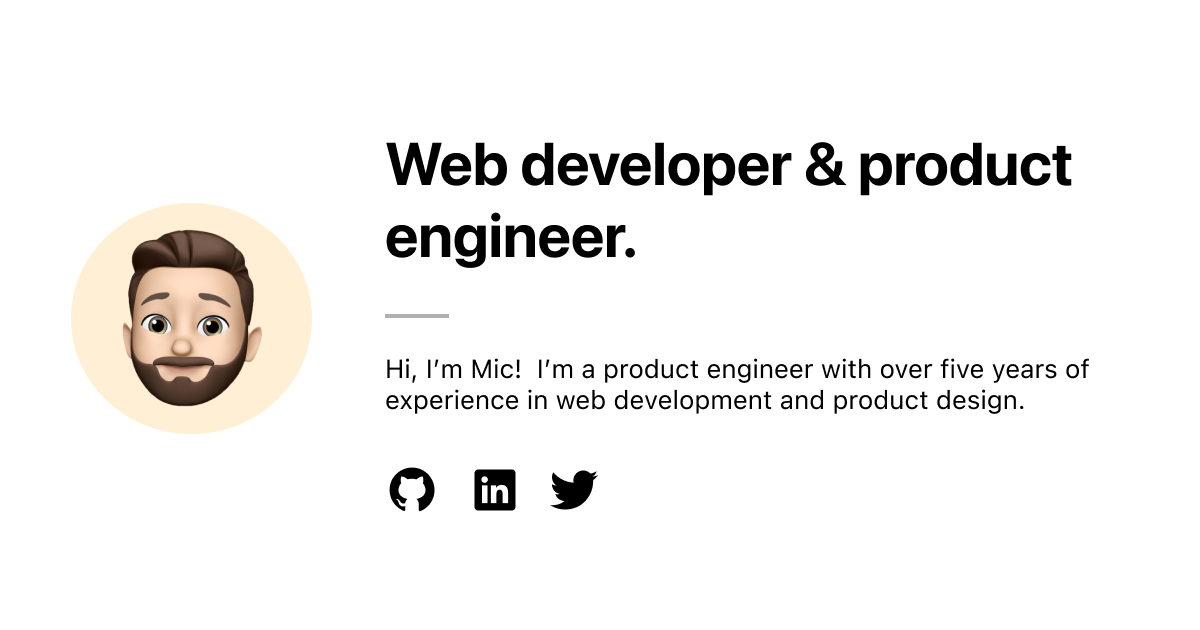
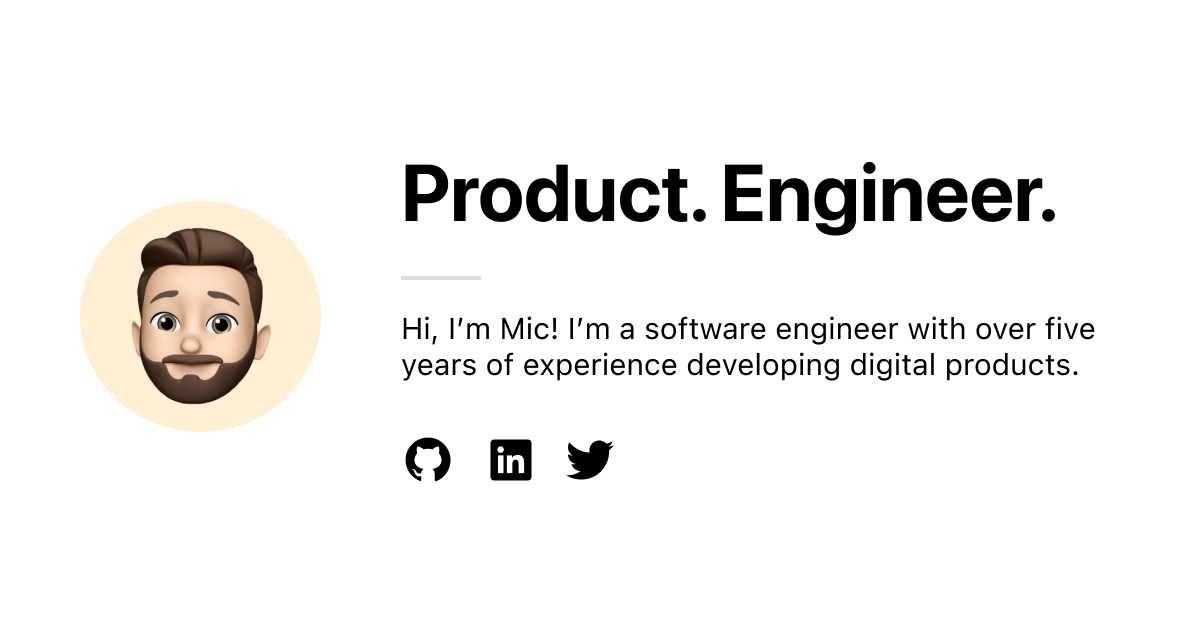
More on product engineering

diff --git a/src/components/About.js b/src/components/About.js
@@ -45,25 +45,67 @@ const divider = css`
   animation: ${animateWidth} 0.5s ease-in-out 0.5s forwards;
 `;
 
-const subheading = css`
+const about = css`
   opacity: 0;
+  animation: ${fadeUp} 0.5s ease-out 1s forwards;
   font-size: 1.25rem;
   line-height: 2rem;
-  animation: ${fadeUp} 0.5s ease-out 1s forwards;
   @media (min-width: 420px) {
     font-size: 1.5rem;
   }
 `;
 
+const details = css`
+  font-size: 0.8em;
+  background-color: aliceblue;
+  border-radius: 0.5rem;
+  & p {
+    padding: 0.4rem 0.8rem;
+  }
+`;
+
+const summary = css`
+  cursor: pointer;
+  padding: 0.4rem 0.8rem;
+`;
+
+const detailsContent = css`
+  padding: 0.4rem 0.8rem;
+  margin: 0;
+`;
+
 export default function About() {
   return (
     <div css={container}>
-      <h1 css={heading}>Web developer & product engineer.</h1>
+      <h1 css={heading}>Product. Engineer.</h1>
       <div css={divider} />
-      <p css={subheading}>
-        Hi, I’m Mic! I’m a product engineer with over five years of experience
-        in web development and product design. More about my work coming soon!
-      </p>
+      <div css={about}>
+        <p>
+          Hi, I’m Mic! I’m a software engineer with a background in business
+          management and computer science and over five years of experience
+          developing digital products.
+        </p>
+
+        <details css={details}>
+          <summary css={summary}>What's a product engineer?</summary>
+          <p css={detailsContent}>
+            A product engineer is a software engineer with a strong interest and
+            understanding in product development. They marry full-stack
+            technical skills with product management, strategy and design.
+            <br /> This excellent{" "}
+            <a
+              href="https://blog.pragmaticengineer.com/the-product-minded-engineer/"
+              target="_blank"
+              rel="noreferrer"
+            >
+              blog post
+            </a>{" "}
+            explains it in detail.
+          </p>
+        </details>
+
+        <p>More about my work coming soon!</p>
+      </div>
     </div>
   );
 }

diff --git a/src/components/Header.js b/src/components/Header.js
@@ -19,18 +19,22 @@ const container = css`
 const navLink = css`
   color: black;
   font-weight: 500;
-  margin-left: 2rem;
+  margin-left: 1rem;
   display: inline-block;
   transition: transform 0.1s ease-in-out;
   a {
     color: black;
   }
-  :hover {
+  :hover,
+  :focus {
     transform: translateY(-2px);
     transition: transform 0.1s ease-in-out;
     a {
       color: dodgerblue;
     }
+  }
+  @media (min-width: 420px) {
+    margin-left: 2rem;
   }
 `;
 
@@ -41,13 +45,27 @@ export default function Header() {
 
       <nav>
         <div css={navLink}>
-          <a href="https://github.com/mic-css">GitHub</a>
+          <a href="https://github.com/mic-css" target="_blank" rel="noreferrer">
+            GitHub
+          </a>
         </div>
         <div css={navLink}>
-          <a href="https://www.linkedin.com/in/mic-cassano">LinkedIn</a>
+          <a
+            href="https://www.linkedin.com/in/mic-cassano"
+            target="_blank"
+            rel="noreferrer"
+          >
+            LinkedIn
+          </a>
         </div>
         <div css={navLink}>
-          <a href="https://twitter.com/mic_css">Twitter</a>
+          <a
+            href="https://twitter.com/mic_css"
+            target="_blank"
+            rel="noreferrer"
+          >
+            Twitter
+          </a>
         </div>
       </nav>
     </header>

diff --git a/public/index.html b/public/index.html
@@ -35,10 +35,7 @@
       content="I’m a product engineer with over five years of experience in web development and product design."
     />
     <meta property="og:image" content="https://mic.dev/card-preview.png" />
-    <meta
-      name="twitter:title"
-      content="Product engineer & web developer | Mic Cassano"
-    />
+    <meta name="twitter:title" content="Mic Cassano | Product Engineer" />
     <meta
       name="twitter:description"
       content="I’m a product engineer with over five years of experience in web development and product design."
